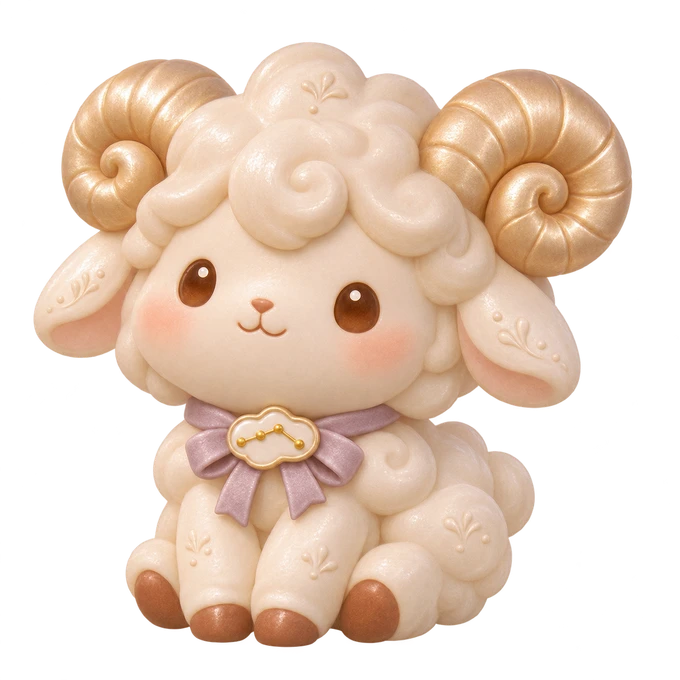
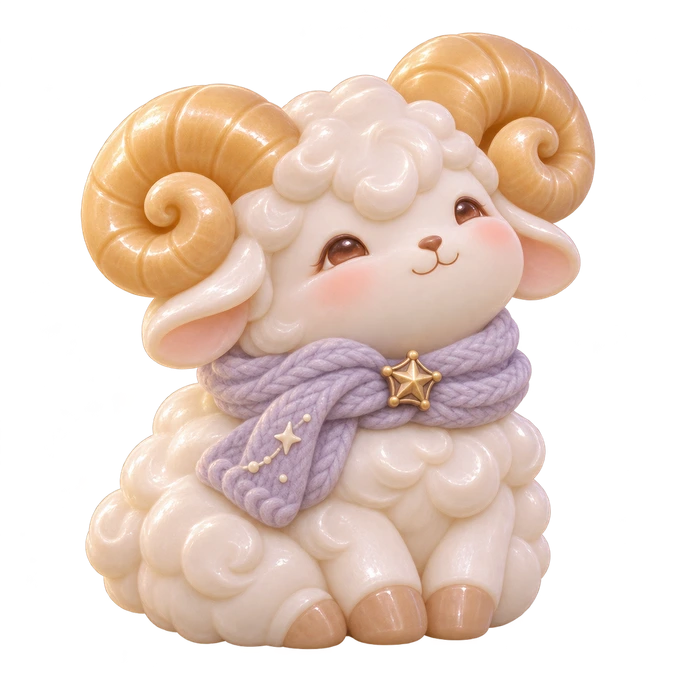
Use the supplied Byeolmajung portrait and bow greeting

diff --git a/web/src/app/catalog/catalog-gallery.tsx b/web/src/app/catalog/catalog-gallery.tsx
@@ -7,6 +7,7 @@ import { client } from '@/lib/mobile-data';
 import { characters, type Character } from './characters';
 import CatalogStardust from './catalog-stardust';
 import { useCloseDialogOnHide } from '@/components/use-close-dialog-on-hide';
+import '@/components/first-star-bow.css';
 
 function CharacterArt({ character, acquired, play, large = false }: {
   character: Character;
@@ -16,6 +17,7 @@ function CharacterArt({ character, acquired, play, large = false }: {
 }) {
   const [imageReady, setImageReady] = useState(false);
   const [waveReady, setWaveReady] = useState(false);
+  const bow = character.greeting === 'bow';
 
   return (
     <span
@@ -23,11 +25,11 @@ function CharacterArt({ character, acquired, play, large = false }: {
       style={{ '--companion-light': character.color } as CSSProperties}
       data-character={character.id}
       data-acquired={acquired}
-      data-greeting={acquired && play && imageReady && waveReady ? 'ready' : undefined}
+      data-greeting={acquired && play && imageReady && (bow || waveReady) ? (bow ? 'bow' : 'wave') : undefined}
     >
       {acquired ? <span className="catalog-portrait">
         <Image
-          className="catalog-rest-frame"
+          className={bow ? 'catalog-rest-frame first-star-bow' : 'catalog-rest-frame'}
           src={`/catalog/${character.id}.webp`}
           alt=""
           fill
@@ -35,7 +37,7 @@ function CharacterArt({ character, acquired, play, large = false }: {
           loading={large ? 'eager' : 'lazy'}
           onLoad={() => setImageReady(true)}
         />
-        {play && (
+        {play && !bow && (
           <Image
             className="catalog-wave-frame"
             src={`/catalog/${character.id}-wave.webp`}
@@ -158,7 +160,7 @@ export default function CatalogGallery() {
               <span className="catalog-acquisition" data-acquired={isAcquired(selected)}>{statusLabel(selected)}</span>
               <p className="catalog-theme">{selected.constellation.theme}</p>
               <p className="catalog-story">{selected.story}</p>
-              <p className="catalog-activity">내 밤하늘에서 활동할 수 있어요</p>
+              <p className="catalog-activity">{selected.gesture ?? '내 밤하늘에서 활동할 수 있어요'}</p>
             </div>
           </div>
         )}

diff --git a/web/src/components/constellation-celebration.tsx b/web/src/components/constellation-celebration.tsx
@@ -4,6 +4,7 @@ import Image from 'next/image';
 import { useRouter } from 'next/navigation';
 import { useEffect, useId, useRef, useState, type ReactNode } from 'react';
 import { characters } from '@/app/catalog/characters';
+import './first-star-bow.css';
 
 /**
  * 별자리를 완성해 도감에 친구가 담길 때 뜨는 모달.
@@ -24,7 +25,8 @@ export default function ConstellationCelebration({ constellationId, name, title,
 
   const stay = !!onDone;
   const [canClose, setCanClose] = useState(!stay);
-  const [waveReady, setWaveReady] = useState(false);
+  const [artReady, setArtReady] = useState(false);
+  const bow = character?.greeting === 'bow';
   useEffect(() => {
     const modal = dialog.current;
     if (!modal) return;
@@ -53,13 +55,10 @@ export default function ConstellationCelebration({ constellationId, name, title,
       <div className="constellation-award">
         <span aria-hidden="true">✧</span>
         {character ? (
-          <div className="constellation-award-art" data-wave-ready={waveReady || undefined}>
+          <div className="constellation-award-art" data-bow-ready={bow && artReady || undefined}>
             <Image src={`/catalog/${character.id}.webp`} alt={character.nickname}
-              fill unoptimized loading="eager" />
-            {character.id === 'posil' && (
-              <Image className="constellation-award-wave" src="/catalog/posil-wave.webp" alt="" aria-hidden="true"
-                fill unoptimized loading="eager" onLoad={() => setWaveReady(true)} />
-            )}
+              className={bow ? 'first-star-bow' : undefined}
+              fill unoptimized loading="eager" onLoad={bow ? () => setArtReady(true) : undefined} />
           </div>
         ) : <strong aria-hidden="true">✦</strong>}
         <span aria-hidden="true">✧</span>

diff --git a/web/src/components/night-sky.css b/web/src/components/night-sky.css
@@ -895,7 +895,6 @@ html.sky-locked-page { --sky-dock-height: 96px; --person-height: 15dvh; }
   object-fit: contain;
   filter: drop-shadow(0 0 14px #d6a8ff85);
 }
-.constellation-award-wave { opacity: 0; }
 .constellation-award span:first-child { transform: translateY(12px); }
 .constellation-award span:last-child { transform: translateY(-13px); }
 
@@ -912,21 +911,6 @@ html.sky-locked-page { --sky-dock-height: 96px; --person-height: 15dvh; }
   .constellation-celebration[open] { animation: constellation-award-in 380ms ease-out both; }
   .constellation-celebration[open] .constellation-award :is(strong, .constellation-award-art) {
     animation: constellation-star-in 600ms 100ms ease-out both;
-  }
-  .constellation-celebration[open] [data-wave-ready] img:first-child {
-    animation: constellation-wave-rest 1250ms 420ms both;
-  }
-  .constellation-celebration[open] [data-wave-ready] .constellation-award-wave {
-    animation: constellation-wave-greet 1250ms 420ms both;
-  }
-  @keyframes constellation-wave-rest {
-    0%, 24%, 80%, 100% { opacity: 1; }
-    31%, 72% { opacity: 0; }
-  }
-  @keyframes constellation-wave-greet {
-    0%, 24%, 80%, 100% { opacity: 0; }
-    31%, 72% { opacity: 1; }
-    43%, 58% { transform: rotate(-2deg) translateY(-1px); }
   }
   .constellation-celebration[open][data-leaving="true"] { animation: constellation-award-out 320ms ease-in both; }
   .constellation-celebration[open][data-leaving="true"]::backdrop { animation: constellation-award-out 320ms ease-in both; }

diff --git a/web/src/components/night-sky.tsx b/web/src/components/night-sky.tsx
@@ -198,7 +198,7 @@ export default function NightSky({ stars, selected, onSelect, busy, onReload, fo
     const radius = Math.max(1.5 * RAD, ...skies[i].points.map(point => angleBetween(center, point)));
     return { character, center, axes: skyImageAxes(center, radius * 0.82) };
   }), [centers, completed, groups, skies]);
-  // 시작 안내를 마친 직후면 그 안내가 정한 별자리(첫 친구 포실의 양자리)를 "지금 별자리"로. 확대는 하지 않고 넓은 화면(캐릭터가 보이는)으로 시작해
+  // 시작 안내를 마친 직후면 그 안내가 정한 별자리(첫 친구 별마중의 양자리)를 "지금 별자리"로. 확대는 하지 않고 넓은 화면(캐릭터가 보이는)으로 시작해
   // 메뉴 안내를 그 위에서 하고, 첫 안내 카드의 "가까이 보기"를 누르면 양자리로 확대 (lib/service-guide.ts)
   const [guideFocus] = useState(peekSkyFocus);
   useEffect(() => { if (guideFocus !== null) clearSkyFocus(); }, [guideFocus]);

diff --git a/web/src/app/catalog/characters.ts b/web/src/app/catalog/characters.ts
@@ -6,6 +6,8 @@ type CharacterArt = {
   color: string;
   story: string;
   constellationId: number;
+  greeting?: 'bow';
+  gesture?: string;
 };
 
 export type Character = CharacterArt & {
@@ -64,9 +66,11 @@ const artwork: CharacterArt[] = [
     story: '물감은 색을 세 방울쯤 올린 팔레트에 작은 붓을 들고 다녀요. 오늘을 한 가지 색으로 그린다면 무슨 색일까요?',
   },
   {
-    id: 'posil', nickname: '포실',
+    id: 'posil', nickname: '별마중',
     color: '#e5bf9c', constellationId: 11,
-    story: '포실은 처음 내딛는 걸음을 옆에서 기다려요. 목에 단 네 개의 별은 오늘 해 본 작은 일들을 기억해요.',
+    greeting: 'bow',
+    gesture: '첫 별을 보면 꾸벅 인사하기',
+    story: '별마중은 저녁 첫 별이 보이면 고개를 한 번 꾸벅 숙여요. 그러면 연보라색 목도리에 달린 작은 별도 살랑 흔들리며 함께 인사해요.',
   },
 ];
 

diff --git a/web/src/app/catalog/catalog.css b/web/src/app/catalog/catalog.css
@@ -221,19 +221,19 @@
 }
 
 @media (prefers-reduced-motion: no-preference) {
-  .catalog-art[data-greeting="ready"] .catalog-portrait {
+  .catalog-art[data-greeting="wave"] .catalog-portrait {
     animation: catalog-greeting 1.5s ease-in-out both;
   }
 
-  .catalog-art[data-greeting="ready"]::before {
+  .catalog-art[data-greeting]::before {
     animation: catalog-light-drift 1.5s ease-in-out both;
   }
 
-  .catalog-art[data-greeting="ready"] .catalog-wave-frame {
+  .catalog-art[data-greeting="wave"] .catalog-wave-frame {
     animation: catalog-hand-wave 1.5s ease-in-out both;
   }
 
-  .catalog-art[data-greeting="ready"] .catalog-rest-frame {
+  .catalog-art[data-greeting="wave"] .catalog-rest-frame {
     animation: catalog-resting-face 1.5s ease-in-out both;
   }
 

diff --git a/web/src/components/service-guide.tsx b/web/src/components/service-guide.tsx
@@ -1,6 +1,6 @@
 "use client";
 // 처음 시작 안내 (시작 질문을 마친 뒤 한 번, docs/온보딩.md)
-// - 4장: 환영 → 양자리 별 4개 따기(첫 친구 포실) → 별자리 친구 → 하루 한 줄과 포인트
+// - 4장: 환영 → 양자리 별 4개 따기(첫 친구 별마중) → 별자리 친구 → 하루 한 줄과 포인트
 // - 양자리 별은 실제 기록에 남고 하루 별 따기 한도에서 제외한다.
 //   (자기 보고·앱 밖 활동 아님 → 1순위 지표에 섞이지 않음, 2026-11-22 결정)
 // - 언제든 건너뛸 수 있음. 도움받을 곳은 위쪽 모서리 버튼으로 항상 열 수 있음 (mobile-flow.tsx)

diff --git a/web/src/components/first-star-bow.css b/web/src/components/first-star-bow.css
@@ -1,0 +1,18 @@
+@media (prefers-reduced-motion: no-preference) {
+  .catalog-art[data-greeting="bow"] .first-star-bow,
+  .constellation-celebration[open] [data-bow-ready] .first-star-bow {
+    animation: first-star-bow 1050ms cubic-bezier(.4, 0, .25, 1) both;
+    transform-origin: 51% 82%;
+  }
+
+  .constellation-celebration[open] [data-bow-ready] .first-star-bow {
+    animation-delay: 460ms;
+  }
+
+  @keyframes first-star-bow {
+    0%, 100% { transform: none; }
+    38% { transform: translateY(5%) rotate(10deg) scaleY(.945); }
+    51% { transform: translateY(4%) rotate(9deg) scaleY(.955); }
+    78% { transform: translateY(-1%) rotate(-1.6deg); }
+  }
+}

diff --git a/web/src/lib/service-guide.ts b/web/src/lib/service-guide.ts
@@ -68,7 +68,7 @@ function subscribe(listener: () => void) {
   return () => { listeners.delete(listener); };
 }
 
-/** 시작 안내에서 양자리를 완성해 첫 친구(포실)를 만났는지 (안내의 친구 장, 안내 뒤 메인의 지금 별자리에 씀) */
+/** 시작 안내에서 양자리를 완성해 첫 친구(별마중)를 만났는지 (안내의 친구 장, 안내 뒤 메인의 지금 별자리에 씀) */
 export function hasFirstFriend() {
   if (memory.gift === null) memory.gift = read(GIFT_KEY) === String(FIRST_FRIEND_CONSTELLATION);
   return memory.gift;

diff --git a/web/src/app/catalog/page.tsx b/web/src/app/catalog/page.tsx
@@ -6,7 +6,7 @@ import './catalog.css';
 
 export const metadata: Metadata = {
   title: '별자리 도감 · 나란히',
-  description: '포실, 새빛, 윤슬과 함께 나란히의 별자리 친구를 만나요.',
+  description: '별마중, 새빛, 윤슬과 함께 나란히의 별자리 친구를 만나요.',
 };
 
 function CatalogBackLink({ fromProfile = false }: { fromProfile?: boolean }) {

diff --git a/docs/온보딩.md b/docs/온보딩.md
@@ -1,7 +1,7 @@
 # 처음 시작 안내 (온보딩 겸 튜토리얼)
 
 > 1차: 브랜치 `feat/service-guide` (2026-11-21, PR #43). 팀 제안 "첫 설문 이후 온보딩(서비스 가이드) 단계 추가"를 기획 문서와 대조해 다듬은 뒤 구현했다.
-> 2차 통합: 메뉴 안내는 버튼을 하나씩 비춘다. 첫 친구는 양자리의 포실이다.
+> 2차 통합: 메뉴 안내는 버튼을 하나씩 비춘다. 첫 친구는 양자리의 별마중이다.
 > 관련 문서: [기획/아이디어_v4.md](기획/아이디어_v4.md), [기능발견성-조사.md](기능발견성-조사.md), [고민기록.md](고민기록.md) #13·#31
 
 ## 1. 흐름 (2차 기준)
@@ -10,16 +10,16 @@
 시작 질문 3개 → 내가 고른 답 → [다음]
   → 시작 안내 4장 (언제든 "건너뛰기")
      ① 환영: 나란히가 어떤 곳인지, 이번 안내에서 볼 것 3가지
-     ② 양자리: 아주 쉬운 별 4개를 직접 "하늘의 별 따기" → 네 별이 이어져 양자리 완성 → 도감 등록 모달("양자리 친구 포실을 만났어요") → 그날의 기억 카드
-     ③ 별자리 친구: 첫 친구 포실 + 아직 못 만난 친구(프로필 그림 고르기와 같은 별가루 그림)
+     ② 양자리: 아주 쉬운 별 4개를 직접 "하늘의 별 따기" → 네 별이 이어져 양자리 완성 → 도감 등록 모달("양자리 친구 별마중을 만났어요") → 그날의 기억 카드
+     ③ 별자리 친구: 첫 친구 별마중 + 아직 못 만난 친구(프로필 그림 고르기와 같은 별가루 그림)
      ④ 하루 한 줄: 오늘의 별 = 한 줄 기록 → 마음 날씨 → 오늘의 별, 포인트가 쌓이는 방법·별빛 상점, 매일 안 와도 된다는 안내
   → [내 밤하늘 열기] → 메인(넓은 화면, 캐릭터가 보이는 곳. 지금 별자리 = 양자리)
   → 메뉴 안내: 버튼 7개를 하나씩 비추며 설명 (도움받을 곳 → 청년센터·정책 → 모든 별 보기 → 하늘 지도 → 프로필 → 오늘의 별 → 도감)
-  → 기존 첫 안내 카드: "하늘을 끌어서 둘러보세요" → "반짝이는 별을 눌러 보세요"의 [가까이 보기]를 누르면 양자리로 확대(금색 완성 + 포실)
+  → 기존 첫 안내 카드: "하늘을 끌어서 둘러보세요" → "반짝이는 별을 눌러 보세요"의 [가까이 보기]를 누르면 양자리로 확대(금색 완성 + 별마중)
 ```
 
 - 양자리 별 4개(= 튜토리얼의 일): ① 숨 한 번 크게 쉬기 ② 지금 마음에 가까운 날씨 고르기(안 골라도 됨) ③ 오늘을 기억할 한 줄 남기기(비워 둬도 됨) ④ 오늘 해낸 작은 일 알아주기. 버튼을 누르면 무조건 별을 땀 → 실패·포기할 거리가 없음
-- 딴 별은 일반 별과 같은 기록(자기 보고·딴 별)으로 남음 → 40P(1단계 × 10 × 4), 별의 기억(날씨 별은 "마음 날씨 · ○○", 한 줄 별은 쓴 그대로), 양자리 완성, 도감·프로필·프로필 그림에 포실
+- 딴 별은 일반 별과 같은 기록(자기 보고·딴 별)으로 남음 → 40P(1단계 × 10 × 4), 별의 기억(날씨 별은 "마음 날씨 · ○○", 한 줄 별은 쓴 그대로), 양자리 완성, 도감·프로필·프로필 그림에 별마중
 - "건너뛰기"하면 기록 없이 메인으로 (지금 별자리는 원래 규칙대로)
 - 다시 보기: 프로필 → ⚙ 설정 → 맨 아래 "나란히 사용 안내 다시 보기" (`/sky?guide=1`). 이미 딴 별은 다시 기록하지 않고 모달도 다시 뜨지 않음
 - 확인·시연용: `/sky?tour=1`이면 메뉴 안내만 다시 띄움
@@ -63,4 +63,4 @@
 
 - 운영 DB에 `db/migrations/20261124_constellation_shapes.sql`을 먼저 적용한다. 이후 별자리 11개, 별 70개, 양자리 별 4개를 확인하고 웹을 배포한다.
 - 튜토리얼 별 67~70은 일일 별 따기 한도에서 제외한다. 기존 토끼자리 활동과 달콩 수집 기록은 유지된다.
-- 포실은 도감과 프로필 그림 선택에 등록된다. 수집 모달과 도감에서 손인사를 볼 수 있고, 움직임 줄이기 설정에서는 기본 그림을 보여 준다.
+- 별마중은 도감과 프로필 그림 선택에 등록된다. 수집 모달과 도감에서 꾸벅 인사하는 모습을 볼 수 있고, 움직임 줄이기 설정에서는 기본 그림을 보여 준다.

diff --git a/docs/기획/기능완료기준과_콘텐츠.md b/docs/기획/기능완료기준과_콘텐츠.md
@@ -44,7 +44,7 @@
 | 1 · 10 | 돌고래자리(2) · 윤슬 · 나를 돌보는 시간 | 24. 해 보고 싶은 일 3가지 적어 보기 / 3. 관심 있는 직업 영상 하나 보기 / 23. 무료 온라인 강의 하나 들어 보기 / 4. 관심사 커뮤니티에 댓글 하나 남기기 / 25. 가족이나 친구에게 안부 문자 보내기 |
 | 2 · 20 | 거문고자리(3) · 도란 · 현관 너머 한 걸음 | 6. 편의점에서 간식 사 먹기(GPS 편의점) / 26. 동네 빵집에서 빵 하나 사 오기 / 27. 동네 마트에서 장 보기 / 30. 미용실 예약하고 머리 자르기 |
 | 2 · 20 | 토끼자리(5) · 달콩 · 마음에 드는 것 하나 | 카페·도서관·서점 등 11개 활동. 전체 목록은 루트 quests.json 참고. |
-| 1 · 10 | 양자리(11) · 포실 · 첫 걸음의 온기 | 67. 숨 한 번 크게 쉬기 / 68. 지금 마음에 가까운 날씨 고르기 / 69. 오늘을 기억할 한 줄 남기기 / 70. 오늘 해낸 작은 일 알아주기 |
+| 1 · 10 | 양자리(11) · 별마중 · 저녁 첫 별을 마중하는 마음 | 67. 숨 한 번 크게 쉬기 / 68. 지금 마음에 가까운 날씨 고르기 / 69. 오늘을 기억할 한 줄 남기기 / 70. 오늘 해낸 작은 일 알아주기 |
 | 2 · 20 | 여우자리(6) · 노을 · 눈에 담아 둔 풍경 | 7. 3000보 걷기 / 28. 집 근처 산책로 한 바퀴 돌기 / 8. 공원 벤치에 10분 앉아 있기(GPS 공원) / 9. 동네 산책하며 사진 3장 찍기 |
 | 3 · 30 | 백조자리(8) · 여울 · 내 속도로 흘러가는 시간 | 12. 버스나 지하철로 한 정거장 가 보기 / 33. 근처 큰 공원이나 낮은 산 다녀오기(GPS 공원) / 32. 코인노래방에서 노래 한 곡 부르기 / 13. 영화관에서 혼자 영화 보기 / 31. 처음 가 보는 식당에서 혼자 밥 먹기 |
 | 3 · 30 | 화가자리(10) · 물감 · 하루에 색 한 방울 | 14. 무료 전시나 박물관 관람하기 / 15. 동네 행사나 플리마켓 구경하기 / 35. 관심 있는 직업의 가게나 공방 구경하기 / 34. 도서관이나 문화센터 무료 강좌 신청하기 / 16. 원데이 클래스 수강하기 |
